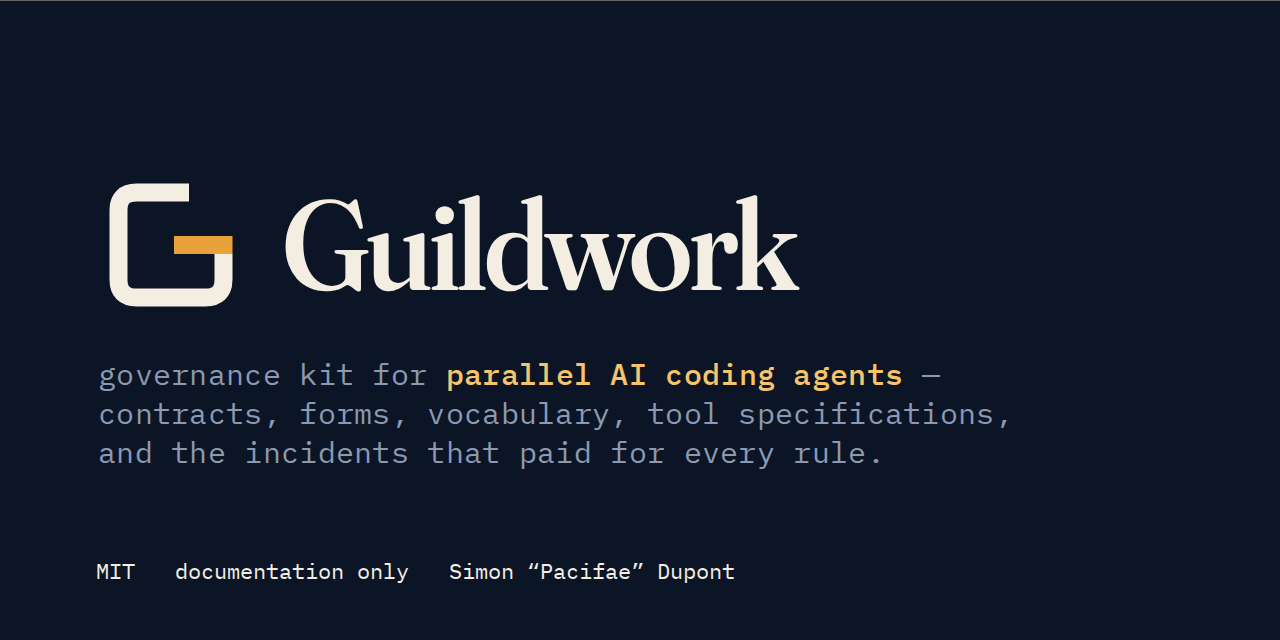
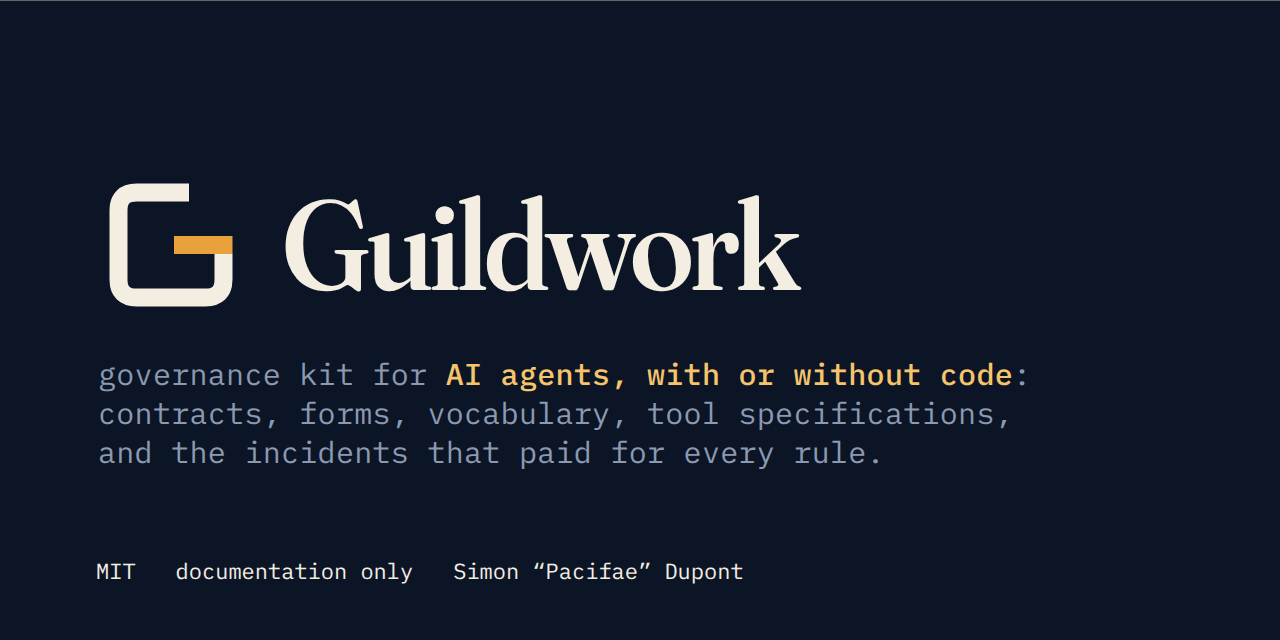
Brand images say what Guildwork is today: with or without code
Three images still carried the first positioning. The repository's social preview and the French post card sold a kit for parallel AI coding agents on one repository; the kit has had a no-code track, and a desk to show it, since 13 September. The LinkedIn Featured card for the site still promised thirty-six days of numbers, a figure the site itself no longer uses. All three now say governance for AI agents, with or without code, and the site card names the no-code desk. The em dashes go with them.

Rendered from brand-source.html as before; the unchanged frames are untouched.

Claude-Session: https://claude.ai/code/session_01TTGzqVFXk3kwzYtfHcbsow

diff --git a/brand/brand-source.html b/brand/brand-source.html
@@ -190,7 +190,7 @@ body { margin: 0; background: #666; font-family: Inter, sans-serif; }
       <svg><use href="#mark"/></svg>
       <p class="word">Guildwork</p>
     </div>
-    <p class="tag">governance kit for <b>parallel AI coding agents</b> —<br>contracts, forms, vocabulary, tool specifications,<br>and the incidents that paid for every rule.</p>
+    <p class="tag">governance kit for <b>AI agents, with or without code</b>:<br>contracts, forms, vocabulary, tool specifications,<br>and the incidents that paid for every rule.</p>
   </div>
   <div class="foot"><span>MIT</span><span>documentation only</span><span>Simon “Pacifae” Dupont</span></div>
 </div>
@@ -202,7 +202,7 @@ body { margin: 0; background: #666; font-family: Inter, sans-serif; }
       <svg><use href="#mark"/></svg>
       <p class="word">Guildwork</p>
     </div>
-    <p class="tag">gouvernance pour <b>plusieurs agents IA sur un même dépôt</b> —<br>contrats, formulaires, vocabulaire, spécification des outils,<br>et les incidents qui ont payé chaque règle.</p>
+    <p class="tag">gouvernance pour <b>agents IA, avec ou sans code</b> :<br>contrats, formulaires, vocabulaire, spécification des outils,<br>et les incidents qui ont payé chaque règle.</p>
   </div>
   <div class="foot"><span>MIT</span><span>documentation seule</span><span>Simon “Pacifae” Dupont</span></div>
 </div>
@@ -214,7 +214,7 @@ body { margin: 0; background: #666; font-family: Inter, sans-serif; }
       <svg><use href="#mark"/></svg>
       <p class="word">La page</p>
     </div>
-    <p class="tag">le mod&egrave;le dessin&eacute;, les chiffres de 36 jours,<br>les offres &mdash; <b>avec du code ou sans</b>.</p>
+    <p class="tag">le mod&egrave;le dessin&eacute;, le bureau sans code,<br>les offres : <b>avec du code ou sans</b>.</p>
     <div class="foot">simon-pacifae-dupont.github.io/Guildwork</div>
   </div>
 </div>
